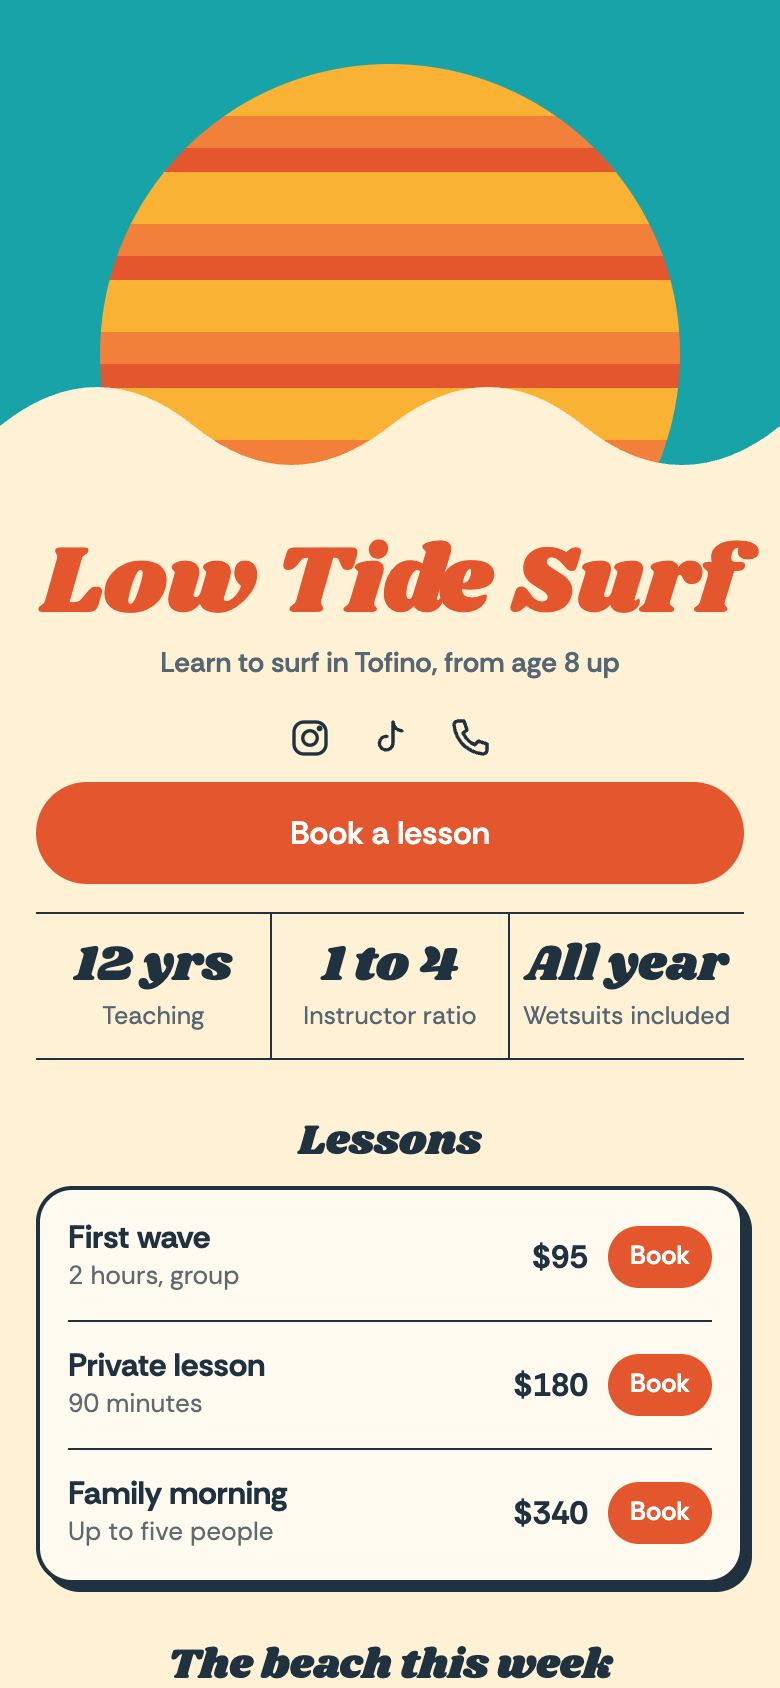
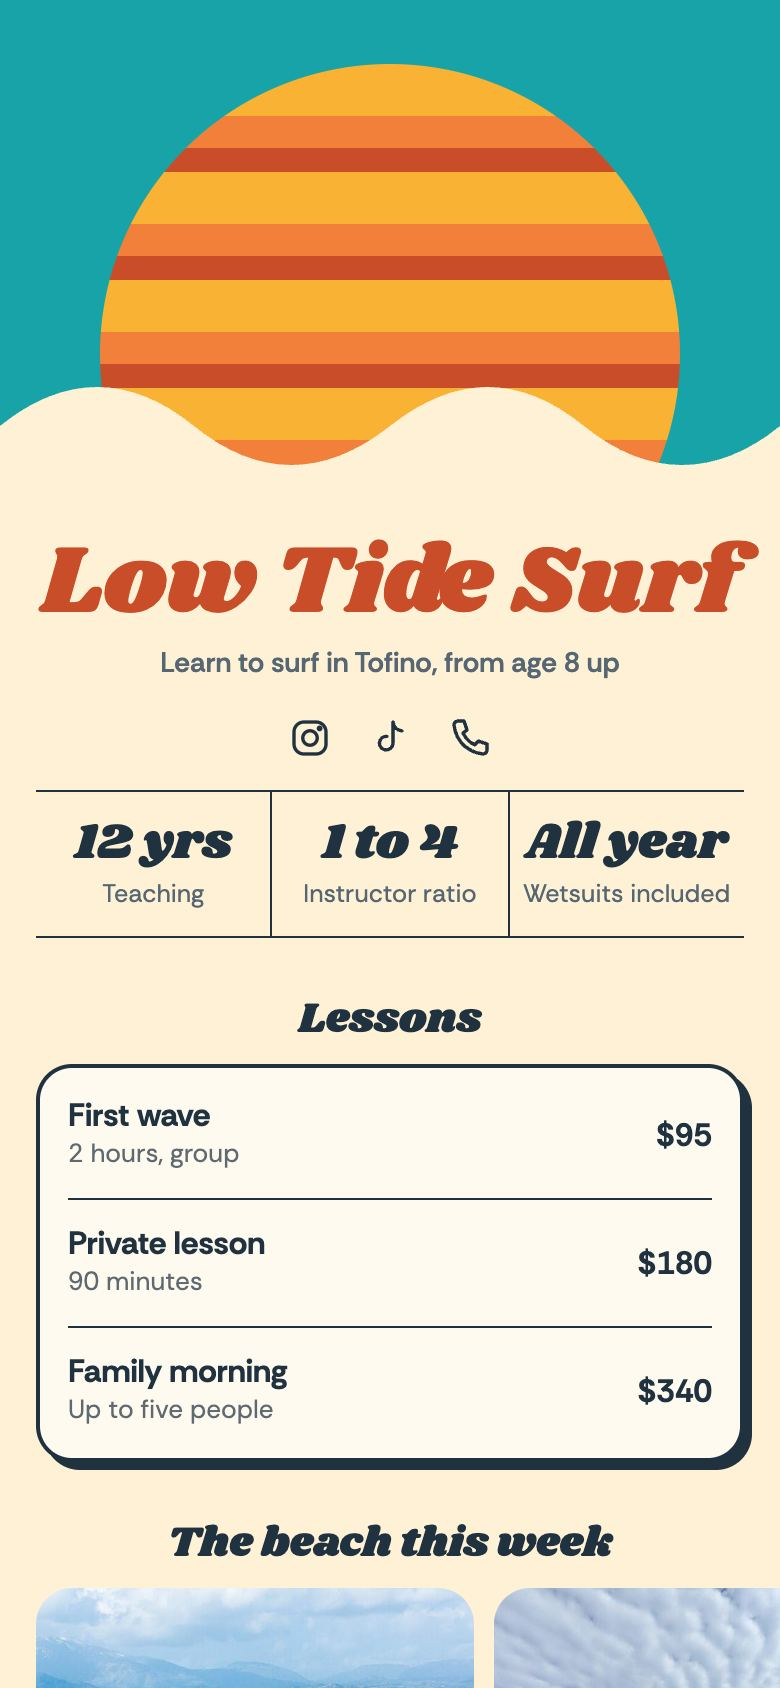
Bring seven looks up to readable contrast and test all 50

diff --git a/packages/render/src/looks/bloom.ts b/packages/render/src/looks/bloom.ts
@@ -5,7 +5,7 @@ export const bloom = defineLook({
     fonts: "family=Bricolage+Grotesque:opsz,wght@12..96,400;12..96,600",
     palette: ["#c4412a", "#fff4e4", "#e58a70"],
     seed: 62,
-    css: `.bloom{--sel:#c4412a;--bg:#c4412a;--fg:#fff4e4;--mut:#ffe6d2;--card:#fff4e4;--cardfg:#3a120a;--line:#e58a70;--btn:#fff4e4;--btnfg:#a12f1b;--acc:#c4412a;--disp:"Bricolage Grotesque",sans-serif;--dw:600;--body:"Bricolage Grotesque",sans-serif;--r:20px;--rb:999px}.bloom .os-art{position:absolute;z-index:-1;width:440px;left:50%;margin-left:-220px;top:-126px}.bloom .os-art svg{display:block;width:100%}.bloom .p-head{padding-top:236px;text-align:left}.bloom .os-frame{position:relative;display:inline-block;padding:7px 10px 9px;border:1.5px solid #ffd25e;margin:0 0 12px -10px}.bloom .os-frame i{position:absolute;width:9px;height:9px;background:#fff4e4;border:1.5px solid #ffd25e}.bloom .os-frame i:nth-of-type(1){left:-5px;top:-5px}.bloom .os-frame i:nth-of-type(2){right:-5px;top:-5px}.bloom .os-frame i:nth-of-type(3){left:-5px;bottom:-5px}.bloom .os-frame i:nth-of-type(4){right:-5px;bottom:-5px}.bloom .os-frame .p-tag{position:absolute;right:-1.5px;bottom:-25px;padding:1px 7px;background:#ffd25e;color:#3a120a;font:600 11.5px var(--body);border-radius:3px}.bloom .p-head h1{font-size:50px;line-height:.95;letter-spacing:-.035em}.bloom .p-head p{margin:20px 0 0;font-size:18px;line-height:1.3;color:var(--fg)}.bloom .b-social{justify-content:flex-start}.bloom .b-head{font-size:25px;letter-spacing:-.02em}.bloom .b-logos span{color:#fff4e4}.bloom .b-stats b{font-size:29px}.bloom .b-line li::before{background:#ffd25e}.bloom .p-av{margin:0 0 12px}`,
+    css: `.bloom{--sel:#c4412a;--bg:#c4412a;--fg:#fff4e4;--mut:#fff0e3;--card:#fff4e4;--cardfg:#3a120a;--line:#e58a70;--btn:#fff4e4;--btnfg:#a12f1b;--acc:#c4412a;--disp:"Bricolage Grotesque",sans-serif;--dw:600;--body:"Bricolage Grotesque",sans-serif;--r:20px;--rb:999px}.bloom .os-art{position:absolute;z-index:-1;width:440px;left:50%;margin-left:-220px;top:-126px}.bloom .os-art svg{display:block;width:100%}.bloom .p-head{padding-top:236px;text-align:left}.bloom .os-frame{position:relative;display:inline-block;padding:7px 10px 9px;border:1.5px solid #ffd25e;margin:0 0 12px -10px}.bloom .os-frame i{position:absolute;width:9px;height:9px;background:#fff4e4;border:1.5px solid #ffd25e}.bloom .os-frame i:nth-of-type(1){left:-5px;top:-5px}.bloom .os-frame i:nth-of-type(2){right:-5px;top:-5px}.bloom .os-frame i:nth-of-type(3){left:-5px;bottom:-5px}.bloom .os-frame i:nth-of-type(4){right:-5px;bottom:-5px}.bloom .os-frame .p-tag{position:absolute;right:-1.5px;bottom:-25px;padding:1px 7px;background:#ffd25e;color:#3a120a;font:600 11.5px var(--body);border-radius:3px}.bloom .p-head h1{font-size:50px;line-height:.95;letter-spacing:-.035em}.bloom .p-head p{margin:20px 0 0;font-size:18px;line-height:1.3;color:var(--fg)}.bloom .b-social{justify-content:flex-start}.bloom .b-head{font-size:25px;letter-spacing:-.02em}.bloom .b-logos span{color:#fff4e4}.bloom .b-stats b{font-size:29px}.bloom .b-line li::before{background:#ffd25e}.bloom .p-av{margin:0 0 12px}`,
     header: (p) =>
         `<div class="os-art"><svg viewBox="0 0 400 400" aria-hidden="true"><ellipse cx="200" cy="96" rx="40" ry="92" fill="#ee7a55" transform="rotate(0.0 200 200)"/><ellipse cx="200" cy="96" rx="40" ry="92" fill="#ee7a55" transform="rotate(36.0 200 200)"/><ellipse cx="200" cy="96" rx="40" ry="92" fill="#ee7a55" transform="rotate(72.0 200 200)"/><ellipse cx="200" cy="96" rx="40" ry="92" fill="#ee7a55" transform="rotate(108.0 200 200)"/><ellipse cx="200" cy="96" rx="40" ry="92" fill="#ee7a55" transform="rotate(144.0 200 200)"/><ellipse cx="200" cy="96" rx="40" ry="92" fill="#ee7a55" transform="rotate(180.0 200 200)"/><ellipse cx="200" cy="96" rx="40" ry="92" fill="#ee7a55" transform="rotate(216.0 200 200)"/><ellipse cx="200" cy="96" rx="40" ry="92" fill="#ee7a55" transform="rotate(252.0 200 200)"/><ellipse cx="200" cy="96" rx="40" ry="92" fill="#ee7a55" transform="rotate(288.0 200 200)"/><ellipse cx="200" cy="96" rx="40" ry="92" fill="#ee7a55" transform="rotate(324.0 200 200)"/><ellipse cx="200" cy="124" rx="34" ry="74" fill="#ffb4a2" transform="rotate(18.0 200 200)"/><ellipse cx="200" cy="124" rx="34" ry="74" fill="#ffb4a2" transform="rotate(54.0 200 200)"/><ellipse cx="200" cy="124" rx="34" ry="74" fill="#ffb4a2" transform="rotate(90.0 200 200)"/><ellipse cx="200" cy="124" rx="34" ry="74" fill="#ffb4a2" transform="rotate(126.0 200 200)"/><ellipse cx="200" cy="124" rx="34" ry="74" fill="#ffb4a2" transform="rotate(162.0 200 200)"/><ellipse cx="200" cy="124" rx="34" ry="74" fill="#ffb4a2" transform="rotate(198.0 200 200)"/><ellipse cx="200" cy="124" rx="34" ry="74" fill="#ffb4a2" transform="rotate(234.0 200 200)"/><ellipse cx="200" cy="124" rx="34" ry="74" fill="#ffb4a2" transform="rotate(270.0 200 200)"/><ellipse cx="200" cy="124" rx="34" ry="74" fill="#ffb4a2" transform="rotate(306.0 200 200)"/><ellipse cx="200" cy="124" rx="34" ry="74" fill="#ffb4a2" transform="rotate(342.0 200 200)"/><ellipse cx="200" cy="152" rx="26" ry="50" fill="#ffd25e" transform="rotate(9.0 200 200)"/><ellipse cx="200" cy="152" rx="26" ry="50" fill="#ffd25e" transform="rotate(54.0 200 200)"/><ellipse cx="200" cy="152" rx="26" ry="50" fill="#ffd25e" transform="rotate(99.0 200 200)"/><ellipse cx="200" cy="152" rx="26" ry="50" fill="#ffd25e" transform="rotate(144.0 200 200)"/><ellipse cx="200" cy="152" rx="26" ry="50" fill="#ffd25e" transform="rotate(189.0 200 200)"/><ellipse cx="200" cy="152" rx="26" ry="50" fill="#ffd25e" transform="rotate(234.0 200 200)"/><ellipse cx="200" cy="152" rx="26" ry="50" fill="#ffd25e" transform="rotate(279.0 200 200)"/><ellipse cx="200" cy="152" rx="26" ry="50" fill="#ffd25e" transform="rotate(324.0 200 200)"/><circle cx="200" cy="200" r="34" fill="#fff4e4"/><circle cx="200" cy="200" r="16" fill="#3a120a"/></svg></div><header class="p-head">${p.avatar}<div class="os-frame">${p.name}<i></i><i></i><i></i><i></i>${p.tagline}</div>${p.bio}${p.links}</header>`,
 });

diff --git a/packages/render/src/looks/cutout.ts b/packages/render/src/looks/cutout.ts
@@ -3,9 +3,9 @@ import { defineLook } from "../define-look";
 export const cutout = defineLook({
     label: "Cutout",
     fonts: "family=DM+Serif+Text&family=Nunito:wght@400;600;700",
-    palette: ["#e6412c", "#e6412c", "#17204d"],
+    palette: ["#d73d29", "#d73d29", "#17204d"],
     seed: 21,
-    css: `.cutout{--sel:#e6412c;--bg:#fbf6ea;--fg:#17204d;--mut:#4a5178;--card:#fff;--cardfg:#17204d;--line:#17204d;--btn:#e6412c;--btnfg:#fff;--acc:#e6412c;--disp:"DM Serif Text",serif;--dw:400;--body:Nunito,sans-serif;--r:0px;--rb:999px}.cutout .p-cuts{display:grid;grid-template-columns:repeat(3,1fr);margin:0 -18px}.cutout .p-cuts svg{display:block;width:100%}.cutout .p-head{text-align:left;padding-top:22px}.cutout .p-head h1{font-size:54px;line-height:1}.cutout .p-head p{margin-left:0;font-size:17px;color:#17204d}.cutout .b-social{justify-content:flex-start}.cutout .b-head{font-size:27px}`,
+    css: `.cutout{--sel:#d73d29;--bg:#fbf6ea;--fg:#17204d;--mut:#4a5178;--card:#fff;--cardfg:#17204d;--line:#17204d;--btn:#d73d29;--btnfg:#fff;--acc:#d73d29;--disp:"DM Serif Text",serif;--dw:400;--body:Nunito,sans-serif;--r:0px;--rb:999px}.cutout .p-cuts{display:grid;grid-template-columns:repeat(3,1fr);margin:0 -18px}.cutout .p-cuts svg{display:block;width:100%}.cutout .p-head{text-align:left;padding-top:22px}.cutout .p-head h1{font-size:54px;line-height:1}.cutout .p-head p{margin-left:0;font-size:17px;color:#17204d}.cutout .b-social{justify-content:flex-start}.cutout .b-head{font-size:27px}`,
     header: (p) =>
-        `<div class="p-cuts" aria-hidden="true"><svg viewBox="0 0 100 100" aria-hidden="true"><rect width="100" height="100" fill="#e6412c"/><path d="M50 6c20 14 30 30 20 46 14-6 22 2 18 16-12 2-20-2-26-10 2 14-2 26-12 36-10-10-14-22-12-36-6 8-14 12-26 10-4-14 4-22 18-16C20 36 30 20 50 6z" fill="#fbf6ea"/></svg><svg viewBox="0 0 100 100" aria-hidden="true"><rect width="100" height="100" fill="#f5b81f"/><circle cx="50" cy="50" r="30" fill="#17204d"/></svg><svg viewBox="0 0 100 100" aria-hidden="true"><rect width="100" height="100" fill="#17204d"/><path d="M50 6c20 14 30 30 20 46 14-6 22 2 18 16-12 2-20-2-26-10 2 14-2 26-12 36-10-10-14-22-12-36-6 8-14 12-26 10-4-14 4-22 18-16C20 36 30 20 50 6z" fill="#f5b81f"/></svg><svg viewBox="0 0 100 100" aria-hidden="true"><rect width="100" height="100" fill="#2f9c7a"/><path d="M10 90C20 40 40 20 90 10 84 60 60 84 10 90z" fill="#fbf6ea"/></svg><svg viewBox="0 0 100 100" aria-hidden="true"><rect width="100" height="100" fill="#f7c8c0"/><path d="M50 6c20 14 30 30 20 46 14-6 22 2 18 16-12 2-20-2-26-10 2 14-2 26-12 36-10-10-14-22-12-36-6 8-14 12-26 10-4-14 4-22 18-16C20 36 30 20 50 6z" fill="#e6412c"/></svg><svg viewBox="0 0 100 100" aria-hidden="true"><rect width="100" height="100" fill="#2d5bd7"/><path d="M50 8l12 30 30 12-30 12-12 30-12-30L8 50l30-12z" fill="#f7c8c0"/></svg></div><header class="p-head">${p.avatar}${p.name}${p.tagline}${p.bio}${p.links}</header>`,
+        `<div class="p-cuts" aria-hidden="true"><svg viewBox="0 0 100 100" aria-hidden="true"><rect width="100" height="100" fill="#d73d29"/><path d="M50 6c20 14 30 30 20 46 14-6 22 2 18 16-12 2-20-2-26-10 2 14-2 26-12 36-10-10-14-22-12-36-6 8-14 12-26 10-4-14 4-22 18-16C20 36 30 20 50 6z" fill="#fbf6ea"/></svg><svg viewBox="0 0 100 100" aria-hidden="true"><rect width="100" height="100" fill="#f5b81f"/><circle cx="50" cy="50" r="30" fill="#17204d"/></svg><svg viewBox="0 0 100 100" aria-hidden="true"><rect width="100" height="100" fill="#17204d"/><path d="M50 6c20 14 30 30 20 46 14-6 22 2 18 16-12 2-20-2-26-10 2 14-2 26-12 36-10-10-14-22-12-36-6 8-14 12-26 10-4-14 4-22 18-16C20 36 30 20 50 6z" fill="#f5b81f"/></svg><svg viewBox="0 0 100 100" aria-hidden="true"><rect width="100" height="100" fill="#2f9c7a"/><path d="M10 90C20 40 40 20 90 10 84 60 60 84 10 90z" fill="#fbf6ea"/></svg><svg viewBox="0 0 100 100" aria-hidden="true"><rect width="100" height="100" fill="#f7c8c0"/><path d="M50 6c20 14 30 30 20 46 14-6 22 2 18 16-12 2-20-2-26-10 2 14-2 26-12 36-10-10-14-22-12-36-6 8-14 12-26 10-4-14 4-22 18-16C20 36 30 20 50 6z" fill="#d73d29"/></svg><svg viewBox="0 0 100 100" aria-hidden="true"><rect width="100" height="100" fill="#2d5bd7"/><path d="M50 8l12 30 30 12-30 12-12 30-12-30L8 50l30-12z" fill="#f7c8c0"/></svg></div><header class="p-head">${p.avatar}${p.name}${p.tagline}${p.bio}${p.links}</header>`,
 });

diff --git a/packages/render/src/looks/smile.ts b/packages/render/src/looks/smile.ts
@@ -5,7 +5,7 @@ export const smile = defineLook({
     fonts: "family=Sora:wght@400;600",
     palette: ["#0d7f77", "#0d7f77", "#c4e7df"],
     seed: 63,
-    css: `.smile{--sel:#0d7f77;--bg:#f1fbf8;--fg:#0d3b3a;--mut:#3e6665;--card:#fff;--cardfg:#0d3b3a;--line:#c4e7df;--btn:#0d7f77;--btnfg:#fff;--acc:#0d7f77;--disp:Sora,sans-serif;--dw:600;--body:Sora,sans-serif;--r:18px}.smile .p-arc{margin:0 -18px;height:272px;position:relative;overflow:hidden;background:#8fe3d2}.smile .p-arc::after{content:"";position:absolute;left:-16%;right:-16%;bottom:-150px;height:300px;border-radius:50%;background:#f1fbf8}.smile .p-arc div{position:relative;z-index:1;padding:44px 24px 0;text-align:center}.smile .p-arc h1{margin:0;font:600 34px/1.08 Sora,sans-serif;letter-spacing:-.03em;color:#0d3b3a}.smile .p-arc p{margin:10px 0 0;font-size:14.5px;color:#0d3b3a}.smile .b-social{margin:-18px 0 8px;position:relative;z-index:1}.smile .b-head{font-size:19px}.smile .b-faq p{font-size:13.5px}.smile .b-svc small{font-size:13.5px}.smile .h-after .b-social{justify-content:center;margin-top:14px}.smile .h-after{text-align:center;position:relative}.smile .h-after p{margin:14px auto 0}`,
+    css: `.smile{--sel:#0d7f77;--bg:#f1fbf8;--fg:#0d3b3a;--mut:#3b6160;--card:#fff;--cardfg:#0d3b3a;--line:#c4e7df;--btn:#0d7f77;--btnfg:#fff;--acc:#0d7f77;--disp:Sora,sans-serif;--dw:600;--body:Sora,sans-serif;--r:18px}.smile .p-arc{margin:0 -18px;height:272px;position:relative;overflow:hidden;background:#8fe3d2}.smile .p-arc::after{content:"";position:absolute;left:-16%;right:-16%;bottom:-150px;height:300px;border-radius:50%;background:#f1fbf8}.smile .p-arc div{position:relative;z-index:1;padding:44px 24px 0;text-align:center}.smile .p-arc h1{margin:0;font:600 34px/1.08 Sora,sans-serif;letter-spacing:-.03em;color:#0d3b3a}.smile .p-arc p{margin:10px 0 0;font-size:14.5px;color:#0d3b3a}.smile .b-social{margin:-18px 0 8px;position:relative;z-index:1}.smile .b-head{font-size:19px}.smile .b-faq p{font-size:13.5px}.smile .b-svc small{font-size:13.5px}.smile .h-after .b-social{justify-content:center;margin-top:14px}.smile .h-after{text-align:center;position:relative}.smile .h-after p{margin:14px auto 0}`,
     header: (p) =>
         `<div class="p-arc"><div>${p.avatar}${p.name}${p.tagline}</div></div><div class="h-after">${p.bio}${p.links}</div>`,
 });

diff --git a/packages/render/src/looks/comet.ts b/packages/render/src/looks/comet.ts
@@ -3,9 +3,9 @@ import { defineLook } from "../define-look";
 export const comet = defineLook({
     label: "Comet",
     fonts: "family=Bungee&family=Rubik:wght@400;500;600",
-    palette: ["#e5127b", "#e5127b", "#2c0d3f"],
+    palette: ["#e21279", "#e21279", "#2c0d3f"],
     seed: 61,
-    css: `.comet{--sel:#e5127b;--bg:#fff3df;--fg:#2c0d3f;--mut:#5f3a70;--card:#fff;--cardfg:#2c0d3f;--line:#2c0d3f;--btn:#e5127b;--btnfg:#fff;--acc:#e5127b;--disp:Bungee,sans-serif;--dw:400;--body:Rubik,sans-serif;--r:16px;--rb:16px;--line-b:2.5px solid #2c0d3f;--hal:center}.comet .p-burst{margin:0 -18px;padding:44px 18px 34px;text-align:center;background:repeating-conic-gradient(from 0deg at 50% 62%,#ff7a1a 0 10deg,#ffb000 10deg 20deg)}.comet .p-burst h1{margin:0;font:400 58px/.94 Bungee,sans-serif;color:#2c0d3f;text-shadow:3px 3px 0 #fff3df}.comet .p-burst .p-tag{display:inline-block;margin-top:14px;background:#2c0d3f;color:#fff3df;padding:6px 14px;border-radius:20px;font-weight:600;font-size:14.5px}.comet .b-head{font-size:24px}.comet .b-social{margin-top:18px}.comet .b-menu i{border-color:#2c0d3f}.comet .p-av{margin:0 0 12px}.comet .h-after{text-align:center}.comet .h-after .b-social{justify-content:center}`,
+    css: `.comet{--sel:#e21279;--bg:#fff3df;--fg:#2c0d3f;--mut:#5f3a70;--card:#fff;--cardfg:#2c0d3f;--line:#2c0d3f;--btn:#e21279;--btnfg:#fff;--acc:#e21279;--disp:Bungee,sans-serif;--dw:400;--body:Rubik,sans-serif;--r:16px;--rb:16px;--line-b:2.5px solid #2c0d3f;--hal:center}.comet .p-burst{margin:0 -18px;padding:44px 18px 34px;text-align:center;background:repeating-conic-gradient(from 0deg at 50% 62%,#ff7a1a 0 10deg,#ffb000 10deg 20deg)}.comet .p-burst h1{margin:0;font:400 58px/.94 Bungee,sans-serif;color:#2c0d3f;text-shadow:3px 3px 0 #fff3df}.comet .p-burst .p-tag{display:inline-block;margin-top:14px;background:#2c0d3f;color:#fff3df;padding:6px 14px;border-radius:20px;font-weight:600;font-size:14.5px}.comet .b-head{font-size:24px}.comet .b-social{margin-top:18px}.comet .b-menu i{border-color:#2c0d3f}.comet .p-av{margin:0 0 12px}.comet .h-after{text-align:center}.comet .h-after .b-social{justify-content:center}`,
     header: (p) =>
         `<div class="p-burst">${p.avatar}${p.name}${p.tagline}</div><div class="h-after">${p.bio}${p.links}</div>`,
 });

diff --git a/packages/render/src/looks/surf.ts b/packages/render/src/looks/surf.ts
@@ -5,9 +5,9 @@ const WAVE = `<svg viewBox="0 0 390 90" aria-hidden="true"><path d="M0 40c32-26 
 export const surf = defineLook({
     label: "Surf",
     fonts: "family=Shrikhand&family=Rethink+Sans:wght@400;500;600;700",
-    palette: ["#17a3a8", "#f9b233", "#f2803a", "#e4572e"],
+    palette: ["#17a3a8", "#f9b233", "#f2803a", "#ca4d29"],
     seed: 31,
-    css: `.surf{--bg:#fff1d6;--fg:#20323f;--mut:#566672;--card:#fffaf0;--cardfg:#20323f;--line:#20323f;--btn:#e4572e;--btnfg:#fff;--acc:#e4572e;--disp:Shrikhand,serif;--dw:400;--body:"Rethink Sans",sans-serif;--r:18px;--line-b:2px solid #20323f;--sh:4px 4px 0 #20323f;--hal:center;--sel:#e4572e}.surf .h-own .p-sun{height:262px;margin:0 -18px;position:relative;overflow:hidden;background:#17a3a8}.surf .h-own .p-sun::before{content:"";position:absolute;left:50%;top:32px;width:290px;height:290px;margin-left:-145px;border-radius:50%;background:repeating-linear-gradient(#f9b233 0 26px,#f2803a 26px 42px,#e4572e 42px 54px)}.surf .h-own .p-sun svg{position:absolute;left:0;right:0;bottom:-1px;width:100%}.surf .h-own .p-head{padding-top:6px}.surf .h-own .p-head h1{font-size:48px;line-height:1;color:#e4572e}.surf .h-own .p-tag{font-weight:600}.surf .b-btn{box-shadow:none}`,
+    css: `.surf{--bg:#fff1d6;--fg:#20323f;--mut:#566672;--card:#fffaf0;--cardfg:#20323f;--line:#20323f;--btn:#ca4d29;--btnfg:#fff;--acc:#ca4d29;--disp:Shrikhand,serif;--dw:400;--body:"Rethink Sans",sans-serif;--r:18px;--line-b:2px solid #20323f;--sh:4px 4px 0 #20323f;--hal:center;--sel:#ca4d29}.surf .h-own .p-sun{height:262px;margin:0 -18px;position:relative;overflow:hidden;background:#17a3a8}.surf .h-own .p-sun::before{content:"";position:absolute;left:50%;top:32px;width:290px;height:290px;margin-left:-145px;border-radius:50%;background:repeating-linear-gradient(#f9b233 0 26px,#f2803a 26px 42px,#ca4d29 42px 54px)}.surf .h-own .p-sun svg{position:absolute;left:0;right:0;bottom:-1px;width:100%}.surf .h-own .p-head{padding-top:6px}.surf .h-own .p-head h1{font-size:48px;line-height:1;color:#ca4d29}.surf .h-own .p-tag{font-weight:600}.surf .b-btn{box-shadow:none}`,
     header: (p) =>
         `<div class="p-sun">${WAVE}</div><header class="p-head">${p.avatar}${p.name}${p.tagline}${p.bio}${p.links}</header>`,
 });

diff --git a/packages/render/src/looks/riso.ts b/packages/render/src/looks/riso.ts
@@ -3,9 +3,9 @@ import { defineLook, picture } from "../define-look";
 export const riso = defineLook({
     label: "Riso",
     fonts: "family=Archivo:wght@400;500;700&family=Bowlby+One",
-    palette: ["#f0324b", "#f0324b", "#1d2bb8"],
+    palette: ["#de2e45", "#de2e45", "#1d2bb8"],
     seed: 30,
-    css: `.riso{--sel:#f0324b;--bg:#f3ecdc;--fg:#1d2bb8;--mut:#3a46b8;--card:#f3ecdc;--cardfg:#1d2bb8;--line:#1d2bb8;--btn:#f0324b;--btnfg:#fff;--acc:#f0324b;--disp:"Bowlby One",sans-serif;--dw:400;--body:Archivo,sans-serif;--r:0px;--rb:0px;--line-b:2px solid #1d2bb8}.riso .p-duo{margin:0 -18px;height:400px;background:#f0324b;position:relative;overflow:hidden}.riso .p-duo img{filter:grayscale(1) contrast(1.35);mix-blend-mode:multiply}.riso .p-duo{height:320px}.riso .p-head{text-align:left;padding-top:18px}.riso .p-head h1{font-size:62px;line-height:.92;color:#1d2bb8}.riso .p-head p{margin:12px 0 0;color:#1d2bb8;font-weight:500}.riso .b-social{justify-content:flex-start}.riso .b-head{font-size:27px}.riso .b-prod{border-radius:0}.riso .b-pi{border-radius:0}.riso .b-pi img{filter:grayscale(1) contrast(1.15)}.riso .b-chip{border-radius:0}`,
+    css: `.riso{--sel:#de2e45;--bg:#f3ecdc;--fg:#1d2bb8;--mut:#3a46b8;--card:#f3ecdc;--cardfg:#1d2bb8;--line:#1d2bb8;--btn:#de2e45;--btnfg:#fff;--acc:#de2e45;--disp:"Bowlby One",sans-serif;--dw:400;--body:Archivo,sans-serif;--r:0px;--rb:0px;--line-b:2px solid #1d2bb8}.riso .p-duo{margin:0 -18px;height:400px;background:#de2e45;position:relative;overflow:hidden}.riso .p-duo img{filter:grayscale(1) contrast(1.35);mix-blend-mode:multiply}.riso .p-duo{height:320px}.riso .p-head{text-align:left;padding-top:18px}.riso .p-head h1{font-size:62px;line-height:.92;color:#1d2bb8}.riso .p-head p{margin:12px 0 0;color:#1d2bb8;font-weight:500}.riso .b-social{justify-content:flex-start}.riso .b-head{font-size:27px}.riso .b-prod{border-radius:0}.riso .b-pi{border-radius:0}.riso .b-pi img{filter:grayscale(1) contrast(1.15)}.riso .b-chip{border-radius:0}`,
     header: (p) =>
         `<div class="p-duo">${picture(p)}</div><header class="p-head">${p.name}${p.tagline}${p.bio}${p.links}</header>`,
 });

diff --git a/packages/render/src/looks/trail.ts b/packages/render/src/looks/trail.ts
@@ -3,9 +3,9 @@ import { defineLook, picture } from "../define-look";
 export const trail = defineLook({
     label: "Trail",
     fonts: "family=Bitter:wght@400;700&family=Karla:wght@400;500;700",
-    palette: ["#c2571a", "#c2571a", "#b7a982"],
+    palette: ["#c1561a", "#c1561a", "#b7a982"],
     seed: 5,
-    css: `.trail{--sel:#c2571a;--bg:#e7ddc2;--fg:#2f2a1a;--mut:#5f573e;--card:#f4eedb;--cardfg:#2f2a1a;--line:#b7a982;--btn:#c2571a;--btnfg:#fff;--acc:#c2571a;--disp:Bitter,serif;--dw:700;--body:Karla,sans-serif;--r:6px;--rb:6px;--hal:left;--line-b:1.5px solid #2f2a1a}.trail .p-head{text-align:left;padding-top:16px}.trail .p-head h1{font-size:34px;line-height:1.05}.trail .p-head p{margin-left:0}.trail .b-social{justify-content:flex-start}`,
+    css: `.trail{--sel:#c1561a;--bg:#e7ddc2;--fg:#2f2a1a;--mut:#5f573e;--card:#f4eedb;--cardfg:#2f2a1a;--line:#b7a982;--btn:#c1561a;--btnfg:#fff;--acc:#c1561a;--disp:Bitter,serif;--dw:700;--body:Karla,sans-serif;--r:6px;--rb:6px;--hal:left;--line-b:1.5px solid #2f2a1a}.trail .p-head{text-align:left;padding-top:16px}.trail .p-head h1{font-size:34px;line-height:1.05}.trail .p-head p{margin-left:0}.trail .b-social{justify-content:flex-start}`,
     header: (p) =>
         `<div class="p-banner">${picture(p)}</div><header class="p-head">${p.name}${p.tagline}${p.bio}${p.links}</header>`,
 });

diff --git a/packages/render/src/render.test.ts b/packages/render/src/render.test.ts
@@ -155,8 +155,8 @@ describe.each(Object.entries(looks))("the %s look", (name, look) => {
         const button = parseColour(read("btn") ?? "", bg);
         expect(pair("fg", bg), "text on the page").toBeGreaterThanOrEqual(4.5);
         expect(pair("cardfg", card), "text on a card").toBeGreaterThanOrEqual(4.5);
-        expect(pair("mut", bg), "quiet text on the page").toBeGreaterThanOrEqual(3.5);
-        expect(pair("btnfg", button), "button text").toBeGreaterThanOrEqual(3.5);
+        expect(pair("mut", bg), "quiet text on the page").toBeGreaterThanOrEqual(4.5);
+        expect(pair("btnfg", button), "button text").toBeGreaterThanOrEqual(4.5);
     });
 
     it("only has rules for things blocks and its header can draw", () => {

diff --git a/tests/style.spec.ts b/tests/style.spec.ts
@@ -58,11 +58,10 @@ function measure(): Sample[] {
     return out;
 }
 
-// A look with no changes is left out: its colours are the approved design, and the guard only runs
-// when someone changes them.
 function stylesFor(look: LookName): PageStyle[] {
     const { colours, base } = lookColours(look);
     return [
+        {},
         { colour: { mode: "preset", brand: colours[0] ?? base } },
         { colour: { mode: "plain", brand: base } },
         { colour: { mode: "dark", brand: base } },
